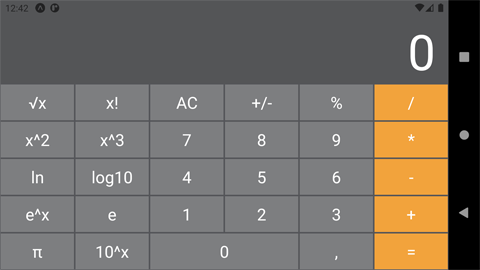
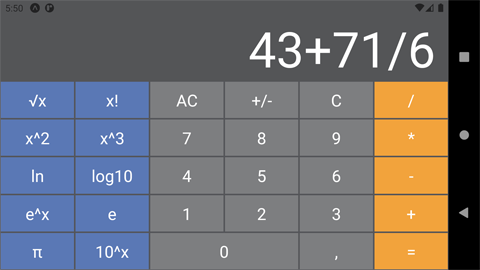
Full math expressions are now supported by eval

diff --git a/App.js b/App.js
@@ -13,9 +13,7 @@ const Type = {
 export default class App extends React.Component {
 
     state = {
-        display: 0,
-        prev: '',
-        operation: ''
+        display: 0
     }
 
     onChange = ({window: {width, height}}) => {
@@ -51,90 +49,50 @@ export default class App extends React.Component {
     handleAC = () => {
         this.setState({
             ...this.state,
-            display: 0,
-            prev: '',
-            operation: ''
+            display: 0
         })
     }
 
     handleNumber = (number) => {
-        const {display} = this.state;
+        let {display} = this.state;
         if (display === 0 && number !== ',') {
             this.setState({
                 ...this.state,
                 display: number
             })
         } else {
-            if (number === ',' && !display.toString().includes('.')) {
-                this.setState({
-                    ...this.state,
-                    display: display.toString() + '.'
-                })
-            } else {
-                this.setState({
-                    ...this.state,
-                    display: parseFloat(display.toString() + number)
-                })
+            const char = display.toString().slice(-1);
+            const array = ["+", "-", "*", "/", "."];
+            if(isNaN(number) && array.includes(char)) {
+                display = display.toString().slice(0, -1);
             }
-        }
-    }
-
-    handleOperation = (operation) => {
-        let {display, prev} = this.state;
-
-        if (prev) {
-            this.handleEquals();
-            setTimeout(() => {
-                display = this.state.display
-                this.setState({
-                    ...this.state,
-                    operation,
-                    prev: display,
-                    display: 0
-                })
-            }, 1)
-        } else {
             this.setState({
                 ...this.state,
-                operation,
-                prev: display,
-                display: 0
+                display: display.toString() + number
             })
         }
     }
 
+    handleOperation = (operation) => {
+        this.handleNumber(operation);
+    }
+
     handleEquals = () => {
-        const {display, prev, operation} = this.state;
+        const {display} = this.state;
 
-        let result;
-
-        switch (operation) {
-            case "+":
-                result = prev + display;
-                break;
-            case "-":
-                result = prev - display;
-                break;
-            case "*":
-                result = prev * display;
-                break;
-            case "/":
-                result = display !== 0 ? prev / display : 0;
-                break;
-            default:
-                result = display;
-        }
+        let result = eval(display);
 
         this.setState({
             ...this.state,
-            display: result,
-            operation: '',
-            prev: ''
+            display: result
         })
     }
 
     handleSign = () => {
-        const {display} = this.state;
+        let {display} = this.state;
+
+        display = eval(display);
+
         this.setState({
             ...this.state,
             display: (-1) * display
@@ -143,6 +101,9 @@ export default class App extends React.Component {
 
     handleFactorial = () => {
         let {display} = this.state;
+
+        display = eval(display);
+
         if (display < 0) {
             console.log("E: Negative numbers")
         } else if (display.toString().indexOf('.') !== -1) {
@@ -157,7 +118,9 @@ export default class App extends React.Component {
     }
 
     handleSqrt = () => {
-        let {display} = this.state;
+        let { display } = this.state;
+
+        display = eval(display);
 
         if (display < 0) {
             console.log("E: Negative numbers")
@@ -173,6 +136,8 @@ export default class App extends React.Component {
     handlePow = (num) => {
         let {display} = this.state;
 
+        display = eval(display);
+
         if (display < 0) {
             console.log("E: Negative numbers")
         } else {
@@ -186,6 +151,8 @@ export default class App extends React.Component {
 
     handleLn = () => {
         let {display} = this.state;
+
+        display = eval(display);
 
         if (display < 0) {
             console.log("E: Negative numbers")
@@ -203,6 +170,8 @@ export default class App extends React.Component {
     handleLog = () => {
         let {display} = this.state;
 
+        display = eval(display);
+
         if (display < 0) {
             console.log("E: Negative numbers")
         } else if (display === 0) {
@@ -218,6 +187,8 @@ export default class App extends React.Component {
 
     handleExp = () => {
         let {display} = this.state;
+
+        display = eval(display);
 
         if (display < 0) {
             console.log("E: Negative numbers")
@@ -241,14 +212,18 @@ export default class App extends React.Component {
     }
 
     handleConst = (num) => {
+        const { display } = this.state;
+
         this.setState({
             ...this.state,
-            display: num
+            display: display + num
         })
     }
 
     handleTenPow = () => {
         let {display} = this.state;
+
+        display = eval(display);
 
         display = pow(10, display);
 
@@ -258,19 +233,14 @@ export default class App extends React.Component {
         })
     }
 
-    handlePercent = () => {
-        let {display, prev, operation} = this.state;
-
-        if (operation === "*" || operation === "/") {
-            display = display / 100;
-        } else {
-            display = (prev * display) / 100;
-        }
+    handleC = () => {
+        let { display } = this.state;
+        display = display.toString().slice(0, -1);
 
         this.setState({
             ...this.state,
             display
-        }, this.handleEquals)
+        })
     }
 
     buttons = [
@@ -300,8 +270,8 @@ export default class App extends React.Component {
         },
         {
             color: Colors.primary,
-            text: '%',
-            onPress: this.handlePercent,
+            text: 'C',
+            onPress: this.handleC,
             type: Type.portrait
         },
         {
@@ -447,7 +417,7 @@ export default class App extends React.Component {
         {
             color: Colors.primary,
             text: ',',
-            onPress: () => this.handleNumber(','),
+            onPress: () => this.handleNumber('.'),
             type: Type.portrait
         },
         {
